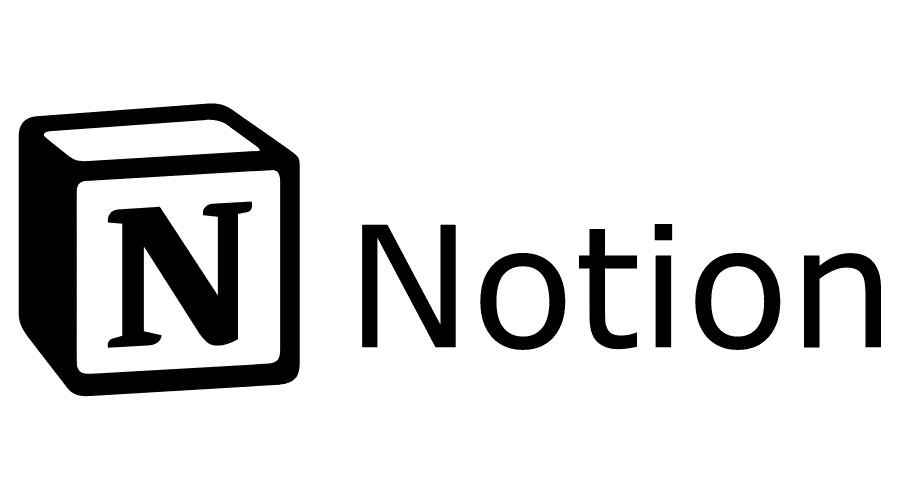
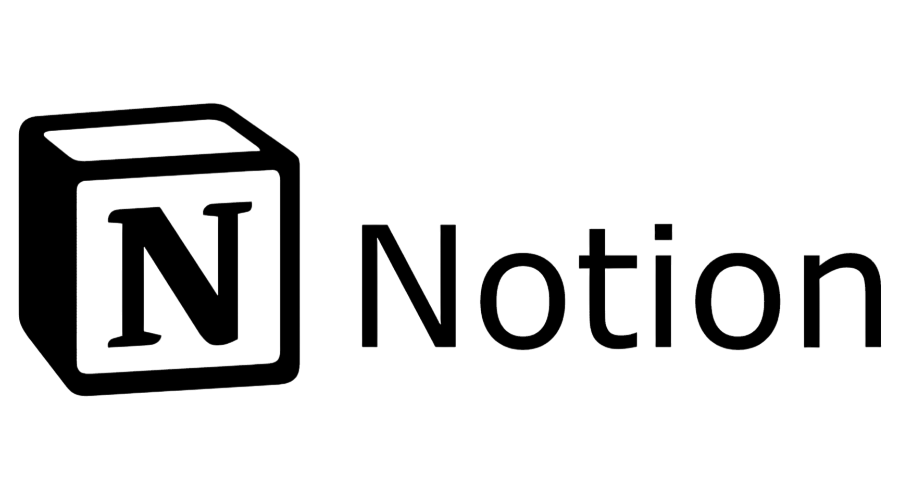
chore: 사진 흰 배경 제거 후 교체

Changed region(s): [[0.6844, 0.51, 0.7156, 0.54]]

diff --git a/src/components/Main/Skills/BackEnd/Component.tsx b/src/components/Main/Skills/BackEnd/Component.tsx
@@ -1,23 +1,13 @@
 import styled from 'styled-components';
 
 import Image from 'next/image';
-import nodejsImg from 'public/imgs/stack/back/node js icon.png';
-import mysqlImg from 'public/imgs/stack/db/mysql icon.jpeg';
-import nodemonImg from 'public/imgs/stack/back/nodemon.png';
-import pm2Img from 'public/imgs/stack/back/pm2.png';
 import axiosImg from 'public/imgs/stack/back/axios.png';
-import tsImg from 'public/imgs/stack/back/ts.png';
+import nodejsImg from 'public/imgs/stack/back/node js icon.png';
 import sequelize from 'public/imgs/stack/back/sequelize.png';
+import tsImg from 'public/imgs/stack/back/ts.png';
+import mysqlImg from 'public/imgs/stack/db/mysql.png';
 
-const imgList = [
-  nodejsImg,
-  mysqlImg,
-  nodemonImg,
-  pm2Img,
-  axiosImg,
-  tsImg,
-  sequelize,
-];
+const imgList = [nodejsImg, mysqlImg, axiosImg, tsImg, sequelize];
 
 const BackEnd = () => {
   return (
@@ -34,16 +24,16 @@ const BackEnd = () => {
 export default BackEnd;
 
 const InnerSkills = styled.div`
-  width: auto; /* width 값 조정 */
+  width: auto;
   margin: 10px;
   border-radius: 10px;
-  background-color: rgba(255, 255, 255, 0.8); /* 배경색 변경 */
+  background-color: rgba(255, 255, 255, 0.8);
   box-shadow: 2px 2px 2px 2px white;
   display: flex;
   flex-direction: column;
   align-items: center;
   padding: 10px;
-  transition: transform 0.3s ease; /* 부드러운 전환 효과 */
+  transition: transform 0.3s ease;
 
   @media only screen and (max-width: 768px) {
     width: 150px;
@@ -60,23 +50,23 @@ const InnerSkills = styled.div`
     align-items: center;
     gap: 5px;
     & > img {
-      width: 50px; /* 이미지 크기 조정 */
+      width: 80px;
       height: auto;
       padding: 5px;
     }
     & > div:first-child {
-      width: fit-content;
+      width: 200px;
       padding: 5px 10px;
       color: orange;
       border-right: 1px solid lightgray;
       font-size: 1.2rem;
       font-weight: 800;
-      text-align: center; /* 텍스트 가운데 정렬 */
+      text-align: center;
     }
   }
 
   &:hover {
-    transform: translateY(-5px); /* hover 시 살짝 위로 이동 */
-    box-shadow: 3px 3px 3px 3px lightgray; /* 그림자 효과 변경 */
+    transform: translateY(-5px);
+    box-shadow: 3px 3px 3px 3px lightgray;
   }
 `;

diff --git a/src/components/Main/Skills/FrontEnd/Component.tsx b/src/components/Main/Skills/FrontEnd/Component.tsx
@@ -6,7 +6,7 @@ import CSSImg from 'public/imgs/stack/front/CSS icon.png';
 import JSImg from 'public/imgs/stack/front/JS icon.png';
 import reduxImg from 'public/imgs/stack/front/redux.png';
 import reactImg from 'public/imgs/stack/front/react.png';
-import nextjsImg from 'public/imgs/stack/front/nextjs.jpg';
+import nextjsImg from 'public/imgs/stack/front/nextjs.png';
 
 const FrontEnd = () => {
   return (
@@ -26,16 +26,16 @@ const FrontEnd = () => {
 export default FrontEnd;
 
 const InnerSkills = styled.div`
-  width: auto; /* width 값 조정 */
+  width: auto;
   margin: 10px;
   border-radius: 10px;
-  background-color: rgba(255, 255, 255, 0.8); /* 배경색 변경 */
+  background-color: rgba(255, 255, 255, 0.8);
   box-shadow: 2px 2px 2px 2px white;
   display: flex;
   flex-direction: column;
   align-items: center;
   padding: 10px;
-  transition: transform 0.3s ease; /* 부드러운 전환 효과 */
+  transition: transform 0.3s ease;
 
   @media only screen and (max-width: 768px) {
     width: 150px;
@@ -52,23 +52,23 @@ const InnerSkills = styled.div`
     align-items: center;
     gap: 5px;
     & > img {
-      width: 50px; /* 이미지 크기 조정 */
+      width: 80px;
       height: auto;
       padding: 5px;
     }
     & > div:first-child {
-      width: fit-content;
+      width: 200px;
       padding: 5px 10px;
       color: orange;
       border-right: 1px solid lightgray;
       font-size: 1.2rem;
       font-weight: 800;
-      text-align: center; /* 텍스트 가운데 정렬 */
+      text-align: center;
     }
   }
 
   &:hover {
-    transform: translateY(-5px); /* hover 시 살짝 위로 이동 */
-    box-shadow: 3px 3px 3px 3px lightgray; /* 그림자 효과 변경 */
+    transform: translateY(-5px);
+    box-shadow: 3px 3px 3px 3px lightgray;
   }
 `;

diff --git a/src/components/Main/Skills/Communication/Component.tsx b/src/components/Main/Skills/Communication/Component.tsx
@@ -23,16 +23,16 @@ const Communication = () => {
 export default Communication;
 
 const InnerSkills = styled.div`
-  width: auto; /* width 값 조정 */
+  width: auto;
   margin: 10px;
   border-radius: 10px;
-  background-color: rgba(255, 255, 255, 0.8); /* 배경색 변경 */
+  background-color: rgba(255, 255, 255, 0.8);
   box-shadow: 2px 2px 2px 2px white;
   display: flex;
   flex-direction: column;
   align-items: center;
   padding: 10px;
-  transition: transform 0.3s ease; /* 부드러운 전환 효과 */
+  transition: transform 0.3s ease;
 
   @media only screen and (max-width: 768px) {
     width: 150px;
@@ -49,23 +49,23 @@ const InnerSkills = styled.div`
     align-items: center;
     gap: 5px;
     & > img {
-      width: 50px; /* 이미지 크기 조정 */
+      width: 80px;
       height: auto;
       padding: 5px;
     }
     & > div:first-child {
-      width: fit-content;
+      width: 200px;
       padding: 5px 10px;
       color: orange;
       border-right: 1px solid lightgray;
       font-size: 1.2rem;
       font-weight: 800;
-      text-align: center; /* 텍스트 가운데 정렬 */
+      text-align: center;
     }
   }
 
   &:hover {
-    transform: translateY(-5px); /* hover 시 살짝 위로 이동 */
-    box-shadow: 3px 3px 3px 3px lightgray; /* 그림자 효과 변경 */
+    transform: translateY(-5px);
+    box-shadow: 3px 3px 3px 3px lightgray;
   }
 `;

diff --git a/src/components/Main/Skills/Deploy/Component.tsx b/src/components/Main/Skills/Deploy/Component.tsx
@@ -22,16 +22,16 @@ const Deployment = () => {
 export default Deployment;
 
 const InnerSkills = styled.div`
-  width: auto; /* width 값 조정 */
+  width: auto;
   margin: 10px;
   border-radius: 10px;
-  background-color: rgba(255, 255, 255, 0.8); /* 배경색 변경 */
+  background-color: rgba(255, 255, 255, 0.8);
   box-shadow: 2px 2px 2px 2px white;
   display: flex;
   flex-direction: column;
   align-items: center;
   padding: 10px;
-  transition: transform 0.3s ease; /* 부드러운 전환 효과 */
+  transition: transform 0.3s ease;
 
   @media only screen and (max-width: 768px) {
     width: 150px;
@@ -48,23 +48,23 @@ const InnerSkills = styled.div`
     align-items: center;
     gap: 5px;
     & > img {
-      width: 50px; /* 이미지 크기 조정 */
+      width: 80px;
       height: auto;
       padding: 5px;
     }
     & > div:first-child {
-      width: fit-content;
+      width: 200px;
       padding: 5px 10px;
       color: orange;
       border-right: 1px solid lightgray;
       font-size: 1.2rem;
       font-weight: 800;
-      text-align: center; /* 텍스트 가운데 정렬 */
+      text-align: center;
     }
   }
 
   &:hover {
-    transform: translateY(-5px); /* hover 시 살짝 위로 이동 */
-    box-shadow: 3px 3px 3px 3px lightgray; /* 그림자 효과 변경 */
+    transform: translateY(-5px);
+    box-shadow: 3px 3px 3px 3px lightgray;
   }
 `;

diff --git a/src/components/Main/Skills/Tools/Component.tsx b/src/components/Main/Skills/Tools/Component.tsx
@@ -23,16 +23,16 @@ const Tools = () => {
 export default Tools;
 
 const InnerSkills = styled.div`
-  width: auto; /* width 값 조정 */
+  width: auto;
   margin: 10px;
   border-radius: 10px;
-  background-color: rgba(255, 255, 255, 0.8); /* 배경색 변경 */
+  background-color: rgba(255, 255, 255, 0.8);
   box-shadow: 2px 2px 2px 2px white;
   display: flex;
   flex-direction: column;
   align-items: center;
   padding: 10px;
-  transition: transform 0.3s ease; /* 부드러운 전환 효과 */
+  transition: transform 0.3s ease;
 
   @media only screen and (max-width: 768px) {
     width: 150px;
@@ -49,23 +49,23 @@ const InnerSkills = styled.div`
     align-items: center;
     gap: 5px;
     & > img {
-      width: 50px; /* 이미지 크기 조정 */
+      width: 80px;
       height: auto;
       padding: 5px;
     }
     & > div:first-child {
-      width: fit-content;
+      width: 200px;
       padding: 5px 10px;
       color: orange;
       border-right: 1px solid lightgray;
       font-size: 1.2rem;
       font-weight: 800;
-      text-align: center; /* 텍스트 가운데 정렬 */
+      text-align: center;
     }
   }
 
   &:hover {
-    transform: translateY(-5px); /* hover 시 살짝 위로 이동 */
-    box-shadow: 3px 3px 3px 3px lightgray; /* 그림자 효과 변경 */
+    transform: translateY(-5px);
+    box-shadow: 3px 3px 3px 3px lightgray;
   }
 `;

diff --git a/src/components/Main/Skills/index.tsx b/src/components/Main/Skills/index.tsx
@@ -41,8 +41,7 @@ const SkillsContainer = styled.div`
     }
     & > div:last-child {
       padding: 20px;
-      width: fit-content;
-      margin: 0 auto;
+      width: 100%;
 
       @media only screen and (max-width: 426px) {
         justify-content: center;
